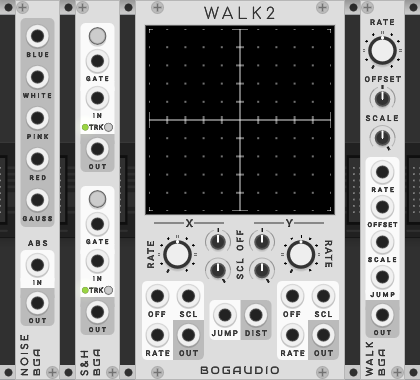
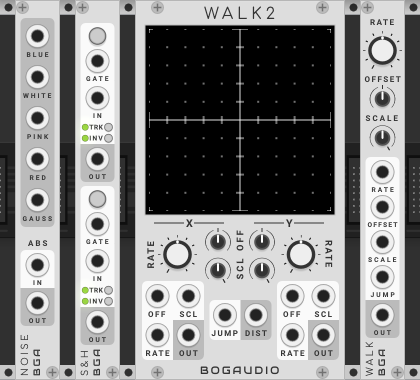
Add output invert toggles to S&H. #75

diff --git a/src/SampleHold.cpp b/src/SampleHold.cpp
@@ -45,6 +45,8 @@ void SampleHold::processChannel(const ProcessArgs& args, int c) {
 	processChannel(
 		lights[TRACK1_LIGHT],
 		params[TRACK1_PARAM],
+		lights[INVERT1_LIGHT],
+		params[INVERT1_PARAM],
 		_trigger1,
 		params[TRIGGER1_PARAM],
 		inputs[TRIGGER1_INPUT],
@@ -56,6 +58,8 @@ void SampleHold::processChannel(const ProcessArgs& args, int c) {
 	processChannel(
 		lights[TRACK2_LIGHT],
 		params[TRACK2_PARAM],
+		lights[INVERT2_LIGHT],
+		params[INVERT2_PARAM],
 		_trigger2,
 		params[TRIGGER2_PARAM],
 		inputs[TRIGGER2_INPUT],
@@ -69,6 +73,8 @@ void SampleHold::processChannel(const ProcessArgs& args, int c) {
 void SampleHold::processChannel(
 	Light& trackLight,
 	Param& trackParam,
+	Light& invertLight,
+	Param& invertParam,
 	Trigger* trigger,
 	Param& triggerParam,
 	Input& triggerInput,
@@ -78,6 +84,7 @@ void SampleHold::processChannel(
 	Output& out
 ) {
 	trackLight.value = trackParam.getValue();
+	invertLight.value = invertParam.getValue();
 
 	int n = std::max(1, std::max(triggerInput.getChannels(), in.getChannels()));
 	out.setChannels(n);
@@ -88,6 +95,7 @@ void SampleHold::processChannel(
 		} else if (altTriggerInput) {
 			triggerIn = altTriggerInput->getPolyVoltage(i);
 		}
+
 		bool triggered = trigger[i].process(triggerParam.getValue() + triggerIn);
 		if (trackParam.getValue() > 0.5f ? trigger[i].isHigh() : triggered) {
 			if (in.isConnected()) {
@@ -97,7 +105,12 @@ void SampleHold::processChannel(
 				value[i] = (noise() + _rangeOffset) * _rangeScale;
 			}
 		}
-		out.setVoltage(value[i], i);
+
+		float o = value[i];
+		if (invertParam.getValue() > 0.5f) {
+			o = -o;
+		}
+		out.setVoltage(o, i);
 	}
 }
 
@@ -138,25 +151,31 @@ struct SampleHoldWidget : ModuleWidget {
 		// generated by svg_widgets.rb
 		auto trigger1ParamPosition = Vec(13.5, 27.0);
 		auto track1ParamPosition = Vec(29.0, 122.7);
+		auto invert1ParamPosition = Vec(29.0, 133.7);
 		auto trigger2ParamPosition = Vec(13.5, 190.0);
 		auto track2ParamPosition = Vec(29.0, 285.7);
+		auto invert2ParamPosition = Vec(29.0, 296.7);
 
 		auto trigger1InputPosition = Vec(10.5, 49.0);
 		auto in1InputPosition = Vec(10.5, 86.0);
 		auto trigger2InputPosition = Vec(10.5, 212.0);
 		auto in2InputPosition = Vec(10.5, 249.0);
 
-		auto out1OutputPosition = Vec(10.5, 137.0);
-		auto out2OutputPosition = Vec(10.5, 300.0);
+		auto out1OutputPosition = Vec(10.5, 147.0);
+		auto out2OutputPosition = Vec(10.5, 310.0);
 
 		auto track1LightPosition = Vec(7.0, 124.0);
+		auto invert1LightPosition = Vec(7.0, 135.0);
 		auto track2LightPosition = Vec(7.0, 287.0);
+		auto invert2LightPosition = Vec(7.0, 298.0);
 		// end generated by svg_widgets.rb
 
 		addParam(createParam<Button18>(trigger1ParamPosition, module, SampleHold::TRIGGER1_PARAM));
 		addParam(createParam<Button18>(trigger2ParamPosition, module, SampleHold::TRIGGER2_PARAM));
 		addParam(createParam<StatefulButton9>(track1ParamPosition, module, SampleHold::TRACK1_PARAM));
 		addParam(createParam<StatefulButton9>(track2ParamPosition, module, SampleHold::TRACK2_PARAM));
+		addParam(createParam<StatefulButton9>(invert1ParamPosition, module, SampleHold::INVERT1_PARAM));
+		addParam(createParam<StatefulButton9>(invert2ParamPosition, module, SampleHold::INVERT2_PARAM));
 
 		addInput(createInput<Port24>(trigger1InputPosition, module, SampleHold::TRIGGER1_INPUT));
 		addInput(createInput<Port24>(in1InputPosition, module, SampleHold::IN1_INPUT));
@@ -168,6 +187,8 @@ struct SampleHoldWidget : ModuleWidget {
 
 		addChild(createLight<SmallLight<GreenLight>>(track1LightPosition, module, SampleHold::TRACK1_LIGHT));
 		addChild(createLight<SmallLight<GreenLight>>(track2LightPosition, module, SampleHold::TRACK2_LIGHT));
+		addChild(createLight<SmallLight<GreenLight>>(invert1LightPosition, module, SampleHold::INVERT1_LIGHT));
+		addChild(createLight<SmallLight<GreenLight>>(invert2LightPosition, module, SampleHold::INVERT2_LIGHT));
 	}
 
 	struct NoiseTypeMenuItem : MenuItem {

diff --git a/src/SampleHold.hpp b/src/SampleHold.hpp
@@ -15,6 +15,8 @@ struct SampleHold : BGModule {
 		TRIGGER2_PARAM,
 		TRACK1_PARAM,
 		TRACK2_PARAM,
+		INVERT1_PARAM,
+		INVERT2_PARAM,
 		NUM_PARAMS
 	};
 
@@ -35,6 +37,8 @@ struct SampleHold : BGModule {
 	enum LightsIds {
 		TRACK1_LIGHT,
 		TRACK2_LIGHT,
+		INVERT1_LIGHT,
+		INVERT2_LIGHT,
 		NUM_LIGHTS
 	};
 
@@ -63,6 +67,8 @@ struct SampleHold : BGModule {
 		configParam(TRIGGER2_PARAM, 0.0f, 10.0f, 0.0f, "Trigger 2");
 		configParam(TRACK1_PARAM, 0.0f, 1.0f, 0.0f, "Track 1");
 		configParam(TRACK2_PARAM, 0.0f, 1.0f, 0.0f, "Track 2");
+		configParam(INVERT1_PARAM, 0.0f, 1.0f, 0.0f, "Invert 1");
+		configParam(INVERT2_PARAM, 0.0f, 1.0f, 0.0f, "Invert 2");
 
 		reset();
 	}
@@ -74,6 +80,8 @@ struct SampleHold : BGModule {
 	void processChannel(
 		Light& trackLight,
 		Param& trackParam,
+		Light& invertLight,
+		Param& invertParam,
 		Trigger* trigger,
 		Param& triggerParam,
 		Input& triggerInput,

diff --git a/README.md b/README.md
@@ -402,7 +402,9 @@ A dual sample-and-hold and trigger-and-hold.  Sampling may be triggered by CV (o
 
 If nothing is connected to an IN port, sampling for that channel is normalled to an internal white noise source with range 0-10V. Alternative options for the normal source noise type and range are available on the context (right-click) menu.  The normal source selection applies to both channels.
 
-Each channel can be independently toggled into track-and-hold mode.  In this mode, when the input at GATE is high, or the button is held, the input is copied to the output.  When the gate goes low, the input is sampled and held until the next gate.
+Each channel can be independently toggled into track-and-hold mode with the corresponding TRK button.  In this mode, when the input at GATE is high, or the button is held, the input is copied to the output.  When the gate goes low, the input is sampled and held until the next gate.
+
+[New in version 1.1.24:] Each channel may also be have its output inverted with the INV button.
 
 The GATE input on the lower section is normalled to GATE in the top section (but a press on the top button does not trigger the lower section).
 
